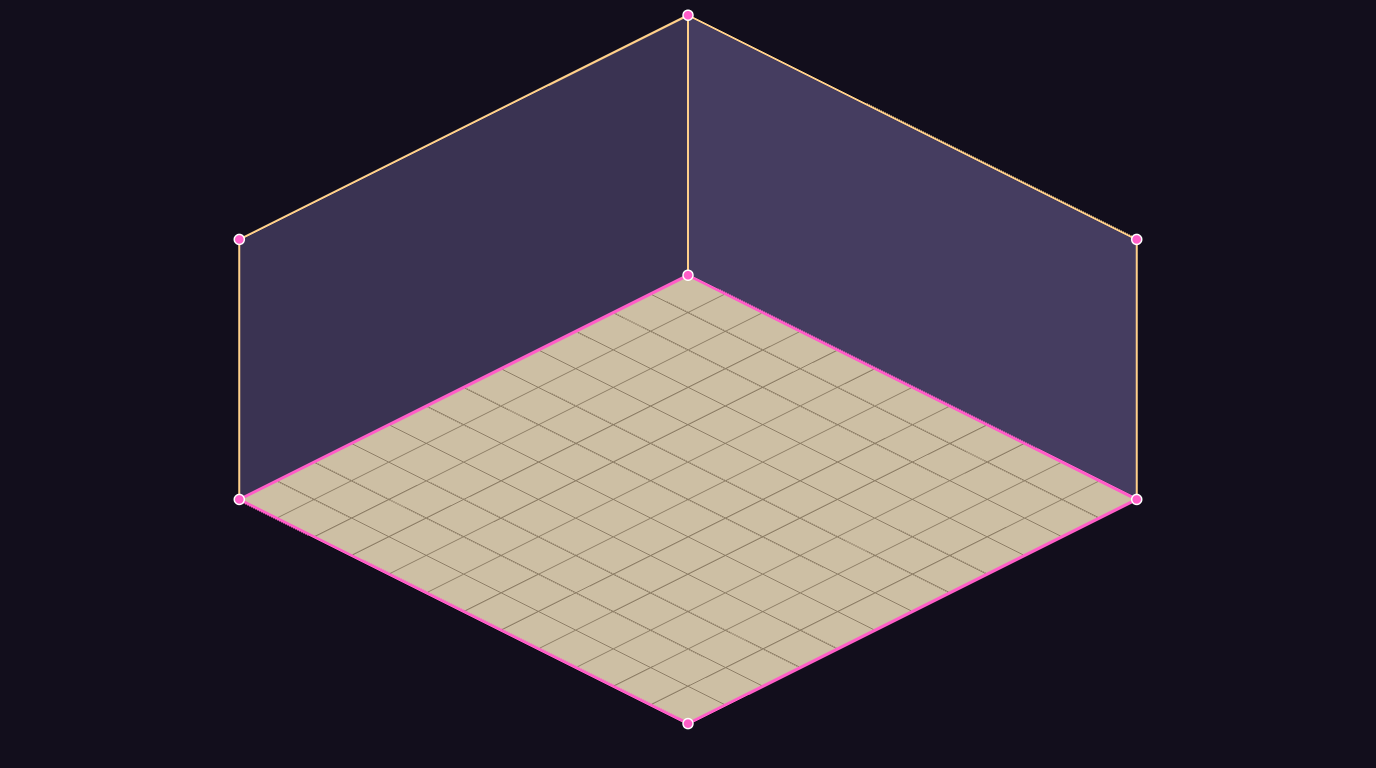
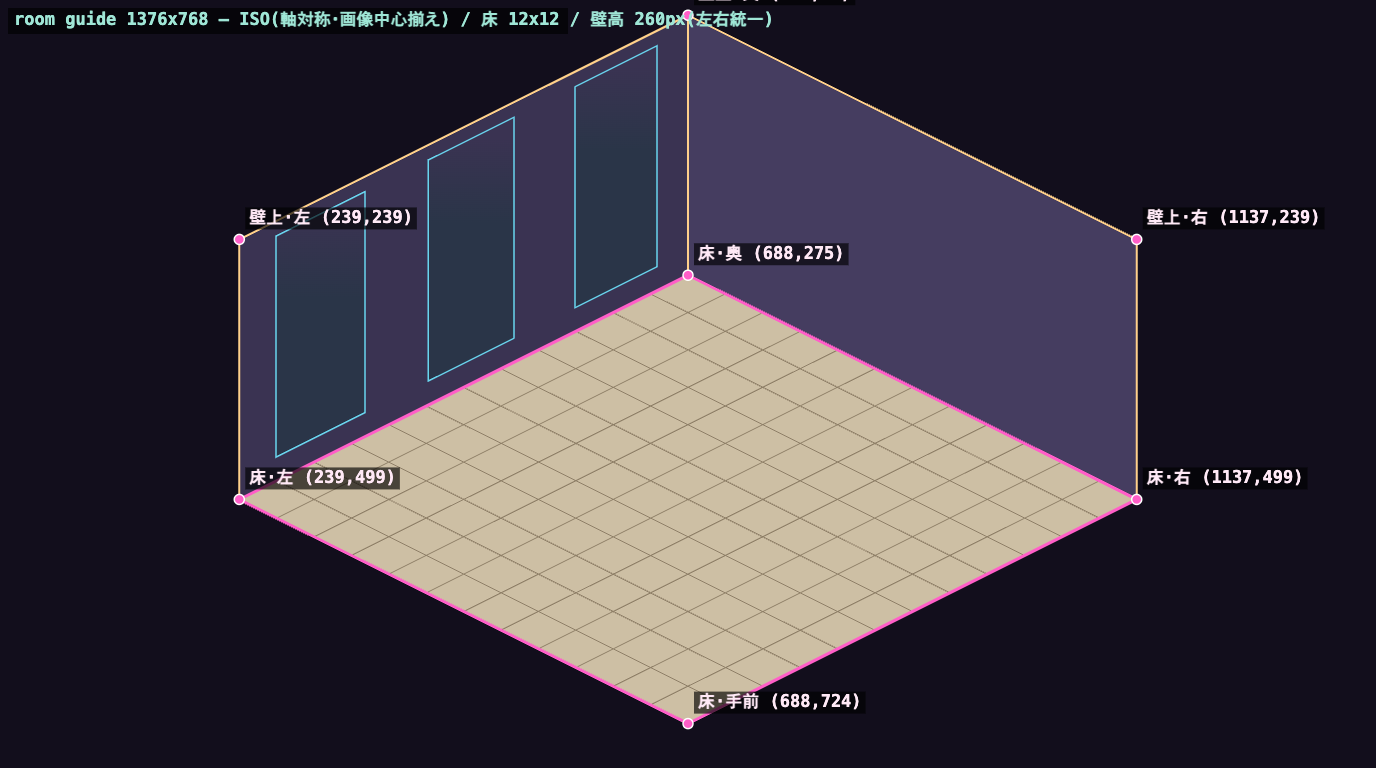
[背景]左壁の開口を「位置だけ規格・形はテーマ任せ」として殻とプロンプトに定義した
アラビアを実際に生成して分かったことの反映。
  - 開口の枚数を文章だけで指示したら4つになった → 殻の絵に3つ描いて位置で示す
  - 「WALL-MOUNTED DECOR ONLY」だけだと壁の外側にヤシの鉢が付いた
    → キャンバスの暗い余白を明示的に空にする指示を足した
  - 「window」と書くと木枠のガラス窓になる → opening に統一し、形はテーマ任せにした
    (アーチ/丸窓/洞窟の裂け目/氷の割れ目/船体の破孔など)

開口3つの v範囲は lighting.mjs の windows と同値、縦は factory-room の透過ガラスの実測。
位置を揃えておけば、将来テーマ部屋でも時間帯連動の空と採光を効かせられる。
殻では硬い四角のままだと枠ごとコピーされるので、上端をぼかしたゾーンとして塗っている。

guide.html:
  - 生成したての画像をファイル選択/ドラッグ&ドロップで重ねられるようにした。
    原寸1376x768かを判定して表示する(=s0 を付け忘れた縮小版に気づける)
  - 検収オーバーレイに開口3つの想定枠(シアン)を追加

diff --git a/tools/preview/guide.html b/tools/preview/guide.html
@@ -33,6 +33,8 @@
   <label>下に重ねる背景
     <select id="room"><option value="">（なし＝ガイドのみ）</option></select>
   </label>
+  <label>生成したての画像 <input type="file" id="pick" accept="image/*"></label>
+  <span id="picked" class="dim"></span>
   <label>背景の不透明度 <input type="range" id="imgA" min="0" max="100" value="60"></label>
   <label>ガイドの不透明度 <input type="range" id="cvA" min="10" max="100" value="100"></label>
   <button id="bFill" class="on">面を塗る（Stitch下絵用）</button>
@@ -42,10 +44,12 @@
   <button id="dl">⬇ 検収用オーバーレイ保存 (room-guide)</button>
 </header>
 <main>
-  <div class="stage">
+  <div class="stage" id="stage">
     <img id="under" alt="" hidden>
     <canvas id="cv" width="1376" height="768"></canvas>
   </div>
+  <p class="hint">生成したてのPNGは、上の「生成したての画像」から選ぶか、
+    <b>この枠に直接ドラッグ&ドロップ</b>しても重ねられる（1376×768 以外なら枠に合わせて伸ばして表示し、警告を出す）。</p>
   <p class="hint">
     実機 <code>game/scene/iso.mjs</code> の <code>ISO</code> 定数（軸対称・画像中心揃え・現行）から
     1376×768 の元画像座標に引いたガイド。<b>ピンク=床の規定ダイヤ(12×12マス=ゲームの論理マス)</b>、
@@ -66,6 +70,13 @@ const GU = 12, GV = 12, VMAX = 1;            // 床は 12×12 マス（ゲーム
 const IW = 1376, IH = 768;                   // Stitch 原寸
 // 壁高は左右統一 260px（factory-room 左壁の実測値。右壁の実測283だと奥の頂点が画面外 y=-8 に出るため260に統一）
 const WALL = 260;
+// 左壁の「外が見える開口」3つ。v範囲は game/scene/lighting.mjs の this.windows と同じ値
+// （採光がここを基準に落ちるので位置は固定）。縦は factory-room の透過ガラスの実測
+// （床エッジから 24〜245px 上）。奥→手前の順。
+// 形はテーマ任せなので、殻では「位置を示すゾーン」として上端をぼかして描く
+// （硬い四角で描くと、そのまま木枠のガラス窓としてコピーされる）。
+const WINDOWS = [{v0:0.069,v1:0.252},{v0:0.388,v1:0.579},{v0:0.720,v1:0.918}];
+const WIN_UP0 = 24, WIN_UP1 = 245;
 const P = (u,v) => ({ x:(ISO.Bx + u*ISO.ux + v*ISO.vx)*IW, y:(ISO.By + u*ISO.uy + v*ISO.vy)*IH });
 
 const show = { fill:true, label:true, game:false };
@@ -93,6 +104,21 @@ function draw(shellOnly) {
     g.fillStyle = '#cdbfa4';
     g.beginPath(); g.moveTo(back.x,back.y); g.lineTo(right.x,right.y);
     g.lineTo(front.x,front.y); g.lineTo(left.x,left.y); g.closePath(); g.fill();
+    // 左壁の開口3つ。「3つ・この位置」だけを絵で伝える(枚数と位置は文章より絵の方が効く)。
+    // 形を真似されないよう、上端に向かってフェードするゾーンとして塗る
+    for (const w of WINDOWS) {
+      const a=P(0,w.v0), b=P(0,w.v1);
+      const yBot=(a.y+b.y)/2-WIN_UP0, yTop=(a.y+b.y)/2-WIN_UP1;
+      const grd = g.createLinearGradient(0,yBot,0,yTop);
+      grd.addColorStop(0,   '#2a3548');
+      grd.addColorStop(0.62,'#2a3548');
+      grd.addColorStop(1,   'rgba(42,53,72,0)');   // 上端をぼかす＝硬い枠に見せない
+      g.fillStyle = grd;
+      g.beginPath();
+      g.moveTo(a.x, a.y-WIN_UP0); g.lineTo(b.x, b.y-WIN_UP0);
+      g.lineTo(b.x, b.y-WIN_UP1); g.lineTo(a.x, a.y-WIN_UP1);
+      g.closePath(); g.fill();
+    }
   }
 
   // 床のタイル目地（12×12）
@@ -108,6 +134,17 @@ function draw(shellOnly) {
   g.strokeStyle = '#ff5ec8'; g.lineWidth = 3;
   g.beginPath(); g.moveTo(back.x,back.y); g.lineTo(right.x,right.y);
   g.lineTo(front.x,front.y); g.lineTo(left.x,left.y); g.closePath(); g.stroke();
+
+  // 開口3つの想定位置（シアン細線）。検収では「3つあるか」「v位置が合っているか」だけを見る。
+  // 形はテーマ任せなので、枠の内側に収まっていなくてもよい
+  g.strokeStyle = 'rgba(110,230,255,.9)'; g.lineWidth = 1.5;
+  for (const w of WINDOWS) {
+    const a=P(0,w.v0), b=P(0,w.v1);
+    g.beginPath();
+    g.moveTo(a.x, a.y-WIN_UP0); g.lineTo(b.x, b.y-WIN_UP0);
+    g.lineTo(b.x, b.y-WIN_UP1); g.lineTo(a.x, a.y-WIN_UP1);
+    g.closePath(); g.stroke();
+  }
 
   // 壁の立ち上げ＋上端（金）＝残り3点。左右とも同じ壁高で、奥の頂点は1点に揃う
   g.strokeStyle = '#ffd08a'; g.lineWidth = 2;
@@ -167,6 +204,28 @@ sel.onchange = () => {
   under.style.opacity = document.getElementById('imgA').value/100;
 };
 document.getElementById('imgA').oninput = e => { under.style.opacity = e.target.value/100; };
+
+/* 生成したての画像を重ねる。ファイル選択でもドロップでも同じ経路 */
+const pickedEl = document.getElementById('picked');
+function useLocal(file) {
+  if (!file || !file.type.startsWith('image/')) return;
+  sel.value = '';                                    // 既存背景の選択は解除
+  under.src = URL.createObjectURL(file); under.hidden = false;
+  under.style.opacity = document.getElementById('imgA').value/100;
+  under.onload = () => {
+    const ok = under.naturalWidth===IW && under.naturalHeight===IH;
+    pickedEl.textContent = `${file.name} ${under.naturalWidth}×${under.naturalHeight}`
+      + (ok ? ' ✔ 原寸一致' : ` ⚠ 1376×768 ではない(伸ばして表示中。判定は目安)`);
+    pickedEl.style.color = ok ? '#9fe6d6' : '#ffb072';
+  };
+}
+document.getElementById('pick').onchange = e => useLocal(e.target.files[0]);
+const stage = document.getElementById('stage');
+for (const ev of ['dragenter','dragover','dragleave','drop']) {
+  stage.addEventListener(ev, e => { e.preventDefault(); e.stopPropagation();
+    stage.style.outline = (ev==='dragenter'||ev==='dragover') ? '2px dashed var(--accent)' : ''; });
+}
+stage.addEventListener('drop', e => useLocal(e.dataTransfer.files[0]));
 document.getElementById('cvA').oninput  = e => { cv.style.opacity = e.target.value/100; };
 const bind = (id,key) => { const b=document.getElementById(id);
   b.onclick = () => { show[key]=!show[key]; b.classList.toggle('on',show[key]); draw(); }; };

diff --git a/docs/stitch-prompts.md b/docs/stitch-prompts.md
@@ -33,8 +33,12 @@ Empty clear floor, same size as reference rooms, dark void margins in corners.
 
 ### THEME_BLOCK の書式（テーマごと）
 
-`LEFT WALL:`（窓の外の景色）/ `WALLS:`（壁の素材）/ `WALL-MOUNTED DECOR ONLY:`（壁掛けの小物を密に）
+`LEFT WALL:`（開口の形＋外の景色）/ `WALLS:`（壁の素材）/ `WALL-MOUNTED DECOR ONLY:`（壁掛けの小物を密に）
 / `Lighting:` / `Palette:` の5行で構成する。**装飾はすべて壁掛け**にし、床には置かない。
+
+`LEFT WALL:` は「窓」と書かない。**外が見える開口**として、その世界観に合う形を明示する
+（アーチ／丸窓／洞窟の裂け目／氷の割れ目／船体の破孔など）。位置だけが規格で、形は自由。
+木枠のガラス窓に寄せたくないので、必要なら `no frames, no glass` と書き添える。
 
 ### 成功済みテーマの差し替え値（key → FLOOR / THEME概要）
 
@@ -164,7 +168,10 @@ STRICT GEOMETRY — copy from the reference image, do not change:
 the room outline, the four corners of the floor diamond, the wall height,
 the camera angle. Every edge stays exactly where it is in the reference.
 Do NOT resize, rotate, re-center, crop, or zoom the room.
-Keep the four canvas corners as empty dark void margins.
+Keep the four canvas corners as empty dark void margins, and keep them COMPLETELY EMPTY:
+every piece of decoration must sit INSIDE the room, on one of the two walls. Nothing —
+no plant, no bracket, no shelf, no lantern — may hang outside the room outline or float
+in the dark margins.
 
 The floor diamond is left-right symmetric: its left and right vertices are at the
 SAME height, its back and front vertices are on the SAME vertical center line.
@@ -172,7 +179,21 @@ Floor = exactly 12 x 12 isometric tiles, true 2:1 isometric.
 Floor spans 65% of image width and 59% of image height.
 Wall height = 34% of image height (about 58% of the floor diamond's height),
 measured straight up from the floor edge; the wall top edge runs parallel to the floor edge.
-Two walls only: LEFT wall with windows, RIGHT wall solid.
+Two walls only: the LEFT wall opens to the outside, the RIGHT wall is solid.
+The LEFT wall has EXACTLY THREE openings that reveal the outside scenery —
+not two, not four, not five. Do not add, remove, merge or split any opening.
+
+ONLY THEIR POSITION IS FIXED. The three soft dark patches on the left wall of the
+reference image mark WHERE the openings go — keep those three positions and roughly
+that size, evenly spaced along the left wall.
+
+THE SHAPE IS YOURS TO MATCH THE THEME. These are openings, NOT literal windows:
+do NOT default to rectangular glass panes in wooden or metal frames. Give each opening
+the shape and framing that the theme would really use — an ogee or horseshoe arch,
+a round porthole, a ragged cave mouth, a crack in ice, a torn hull breach, a gap between
+tree trunks, a torii-framed view — whatever fits. Glass is optional; often there is
+no glass and no frame at all. What matters is only that the outside view is visible
+through all three.
 
 CHANGE ONLY the surface materials and the decoration:
 FLOOR: {{FLOOR_MATERIAL}} laid diagonally along the iso grid, with only a faint flat
@@ -194,9 +215,66 @@ IMPORTANT: no characters, no people, no floor objects, no text, no UI.
 
 表に無い新テーマを作るときも同じ5行の型で書き、うまくいったら表に1行足しておく。
 
+### 記入例: arabia（1部屋目・そのまま貼れる完成形）
+
+参照画像に `docs/room-shell-1376x768.png` を添えて、これをそのまま投げる。
+
+```
+Repaint THIS EXACT room shell with a new theme. Output 1376x768.
+
+STRICT GEOMETRY — copy from the reference image, do not change:
+the room outline, the four corners of the floor diamond, the wall height,
+the camera angle. Every edge stays exactly where it is in the reference.
+Do NOT resize, rotate, re-center, crop, or zoom the room.
+Keep the four canvas corners as empty dark void margins, and keep them COMPLETELY EMPTY:
+every piece of decoration must sit INSIDE the room, on one of the two walls. Nothing —
+no plant, no bracket, no shelf, no lantern — may hang outside the room outline or float
+in the dark margins.
+
+The floor diamond is left-right symmetric: its left and right vertices are at the
+SAME height, its back and front vertices are on the SAME vertical center line.
+Floor = exactly 12 x 12 isometric tiles, true 2:1 isometric.
+Floor spans 65% of image width and 59% of image height.
+Wall height = 34% of image height (about 58% of the floor diamond's height),
+measured straight up from the floor edge; the wall top edge runs parallel to the floor edge.
+Two walls only: the LEFT wall opens to the outside, the RIGHT wall is solid.
+The LEFT wall has EXACTLY THREE openings that reveal the outside scenery —
+not two, not four, not five. Do not add, remove, merge or split any opening.
+
+ONLY THEIR POSITION IS FIXED. The three soft dark patches on the left wall of the
+reference image mark WHERE the openings go — keep those three positions and roughly
+that size, evenly spaced along the left wall.
+
+THE SHAPE IS YOURS TO MATCH THE THEME. These are openings, NOT literal windows:
+do NOT default to rectangular glass panes in wooden or metal frames. Give each opening
+the shape and framing that the theme would really use — an ogee or horseshoe arch,
+a round porthole, a ragged cave mouth, a crack in ice, a torn hull breach, a gap between
+tree trunks, a torii-framed view — whatever fits. Glass is optional; often there is
+no glass and no frame at all. What matters is only that the outside view is visible
+through all three.
+
+CHANGE ONLY the surface materials and the decoration:
+FLOOR: pale cream marble slabs laid diagonally along the iso grid, with only a faint flat
+gold arabesque medallion inlay. Completely clear and EMPTY — no furniture, no objects on the floor.
+
+THEME:
+LEFT WALL: the three openings are tall ogee arches cut straight into the plaster — no frames, no glass — looking onto a violet Arabian night: crescent moon, scattered stars, silhouetted domes and minarets of a desert city.
+WALLS: carved purple-and-gold Moorish plaster with horseshoe arches, dense geometric fretwork and slender gilded columns.
+WALL-MOUNTED DECOR ONLY: pierced brass lanterns hung at several heights, a swagged purple silk curtain with gold tassels, arched niches holding gold coins and jewelled treasure, teardrop mirrors, a brass oil lamp on a wall shelf, strings of glass beads, a peacock perched on a wall ledge, a potted date palm on a wall bracket.
+Lighting: warm amber lantern glow from the left, deep violet shadows.
+Palette: royal purple, indigo, warm gold, brass, cream.
+
+lo-fi 8-bit Famicom pixel art, chunky pixels, HIGH DETAIL dense wall decoration.
+IMPORTANT: no characters, no people, no floor objects, no text, no UI.
+```
+
 ### やってはいけない指示
 
 - 「床の左角を (230,501) に置いて」— 座標指定は効かない。相対比とタイル数で言う
+- 枚数や位置を**文章だけ**で指示する — 開口は殻の絵に3つ描いてあるので「絵のとおりに」と言う方が効く
+  （arabia の1回目は文章だけで指示して4つになった）
+- 開口を「window」と呼ぶ — 木枠のガラス窓を描かれる。**opening**と呼び、形はテーマに合わせる。
+  殻の絵の開口はわざと上端をぼかしてある（硬い四角で描くと、その四角ごとコピーされる）
 - 参照画像を毎回変える — 形がバラける。型は固定、または直前のゴールデンルームで固定
 - 「壁を高く」「奥行きを深く」等の相対的な形容 — 型からの逸脱を誘発する
 
